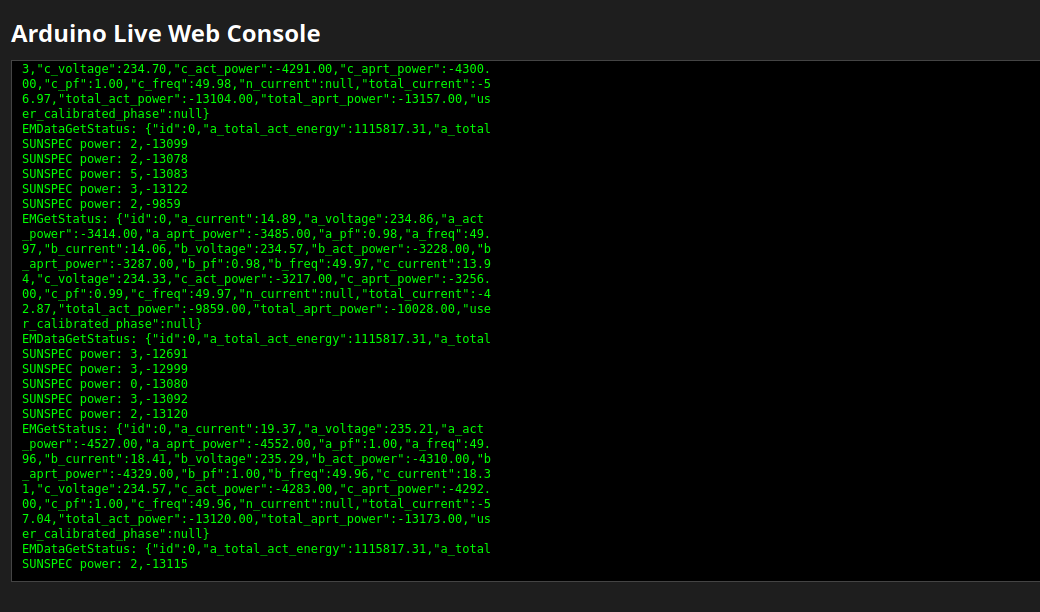
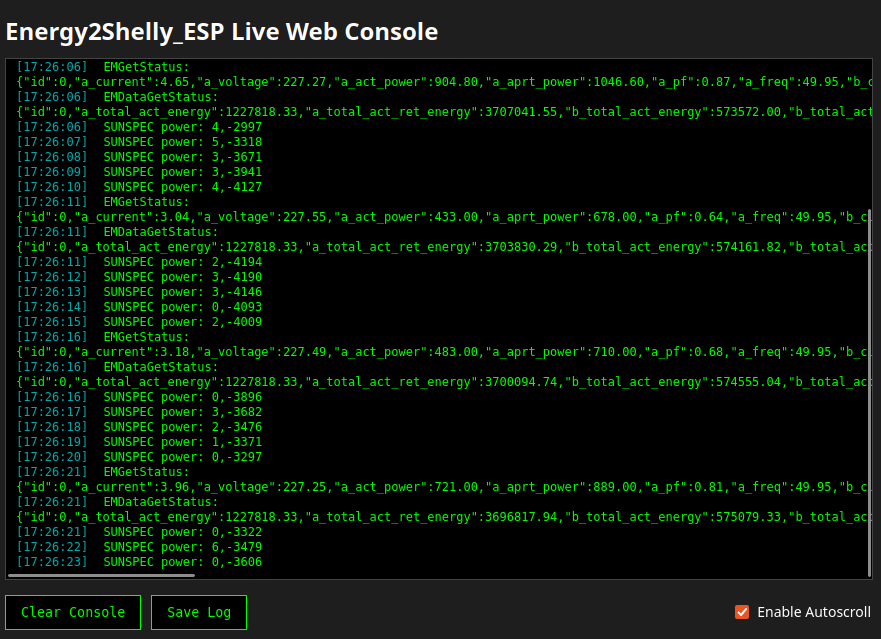
feature update, enabled timestamping, save, clear, autoscroll

diff --git a/src/web/html_home.h b/src/web/html_home.h
@@ -170,38 +170,90 @@ const char* htmlPage_console PROGMEM  = R"rawliteral(
 <!DOCTYPE html>
 <html>
 <head>
-    <title>Arduino HTTP Console</title>
+    <title>Energy2Shelly_ESP HTTP Console</title>
     <style>
         body { background-color: #1e1e1e; color: #00ff00; font-family: monospace; padding: 20px; margin: 0; }
         h2 { color: #ffffff; font-family: sans-serif; margin-bottom: 10px; }
         #console { width: calc(100% - 20px); height: 500px; border: 1px solid #444; overflow-y: scroll; padding: 10px; background: #000; box-shadow: inset 0 0 10px #000; }
         .status { color: #888; font-style: italic; }
+        .timestamp { color: #00aaaa; margin-right: 8px; }
+        .controls-container { margin-top: 15px; display: flex; align-items: center; justify-content: space-between; flex-wrap: wrap; gap: 15px; width: calc(100% - 0px); }
+        .btn-container { display: flex; gap: 10px; }
+        .btn { background-color: #000; color: #00ff00; border: 1px solid #00ff00; padding: 8px 15px; font-family: monospace; cursor: pointer; transition: all 0.2s; }
+        .btn:hover { background-color: #00ff00; color: #000; }
+        .scroll-lock-label { color: #ffffff; font-family: sans-serif; font-size: 14px; display: flex; align-items: center; cursor: pointer; }
+        .scroll-lock-label input { margin-right: 8px; cursor: pointer; }
     </style>
 </head>
 <body>
-    <h2>Arduino Live Web Console</h2>
+    <h2>Energy2Shelly_ESP Live Web Console</h2>
     <div id="console"><span class="status">[Connecting to console stream...]</span><br></div>
-
+    <div class="controls-container">
+        <div class="btn-container">
+            <button class="btn" onclick="clearConsole()">Clear Console</button>
+            <button class="btn" onclick="saveConsole()">Save Log</button>
+        </div>
+        <label class="scroll-lock-label">
+            <input type="checkbox" id="autoscroll" checked> Enable Autoscroll
+        </label>
+    </div>
     <script>
-        var wsPort = 8080; // Default port, will be replaced by the server
+        var wsPort = 8080; 
         var ws = new WebSocket('ws://' + window.location.hostname +  '/consolews');
         var consoleDiv = document.getElementById('console');
-
+        var autoscrollCheck = document.getElementById('autoscroll');
+        var messageBuffer = "";
+        function getTimestamp() {
+            var now = new Date();
+            return '[' + now.toTimeString().split(' ')[0] + '] ';
+        }
         ws.onopen = function() {
-            consoleDiv.innerHTML += '<span style="color:#00ff00;">[Connected to WebSocket on Port ' + wsPort + ']</span><br>';
+            consoleDiv.innerHTML += '<span class="timestamp">' + getTimestamp() + '</span><span style="color:#00ff00;">[Connected to WebSocket on Port ' + wsPort + ']</span><br>';
         };
-
         ws.onmessage = function(event) {
-            consoleDiv.innerHTML +=  event.data.replace(/\n/g, '<br>');
-            consoleDiv.scrollTop = consoleDiv.scrollHeight; // Keep scrolling down
+            messageBuffer += event.data;
+            if (messageBuffer.indexOf('\n') !== -1) {
+                var lines = messageBuffer.split('\n');
+                messageBuffer = lines.pop();
+                var timeTag = '<span class="timestamp">' + getTimestamp() + '</span>';
+                lines.forEach(function(line) {
+                    if (line.length > 0 || line === "") {
+                        consoleDiv.innerHTML += timeTag + line + '<br>';
+                    }
+                });
+                if (autoscrollCheck.checked) {
+                    consoleDiv.scrollTop = consoleDiv.scrollHeight;
+                }
+            }
         };
-
         ws.onclose = function() {
-            consoleDiv.innerHTML += '<span style="color:#ff0000; font-weight:bold;">[Disconnected from Server]</span><br>';
+            consoleDiv.innerHTML += '<span class="timestamp">' + getTimestamp() + '</span><span style="color:#ff0000; font-weight:bold;">[Disconnected from Server]</span><br>';
         };
+        function clearConsole() {
+            consoleDiv.innerHTML = '<span class="timestamp">' + getTimestamp() + '</span><span class="status">[Console cleared]</span><br>';
+            messageBuffer = ""; 
+        }
+        function saveConsole() {
+            var text = consoleDiv.innerText;
+            var blob = new Blob([text], { type: 'text/plain' });
+            var anchor = document.createElement('a');
+            var now = new Date();
+            var dateStr = now.toISOString().slice(0,10);
+            var timeStr = now.toTimeString().split(' ')[0].replace(/:/g, '-');
+            anchor.download = 'console_log_' + dateStr + '_' + timeStr + '.txt';
+            anchor.href = window.URL.createObjectURL(blob);
+            anchor.target = '_blank';
+            anchor.style.display = 'none';
+            document.body.appendChild(anchor);
+            anchor.click();
+            document.body.removeChild(anchor);
+        }
     </script>
 </body>
 </html>
 )rawliteral";
+
+
+
 
 #endif // HTML_HOME_H

diff --git a/README.md b/README.md
@@ -100,6 +100,7 @@ Directly download a matching OTA-binary for your ESP device from the releases pa
 - [ ] \(Optional) If you want to reset you Wifi-Configuration and/or reconfigure other settings go to <code>http://IP-address/reset</code> and reconnect to the Energy2Shelly hotspot.
 
 #### 6. Check debug output at <code>http://IP-address/console</code><br>
+- you can enable/disable autoscroll, save text data and clear console
 
 # Currently supported microcontrollers
 * ESP32-C3
